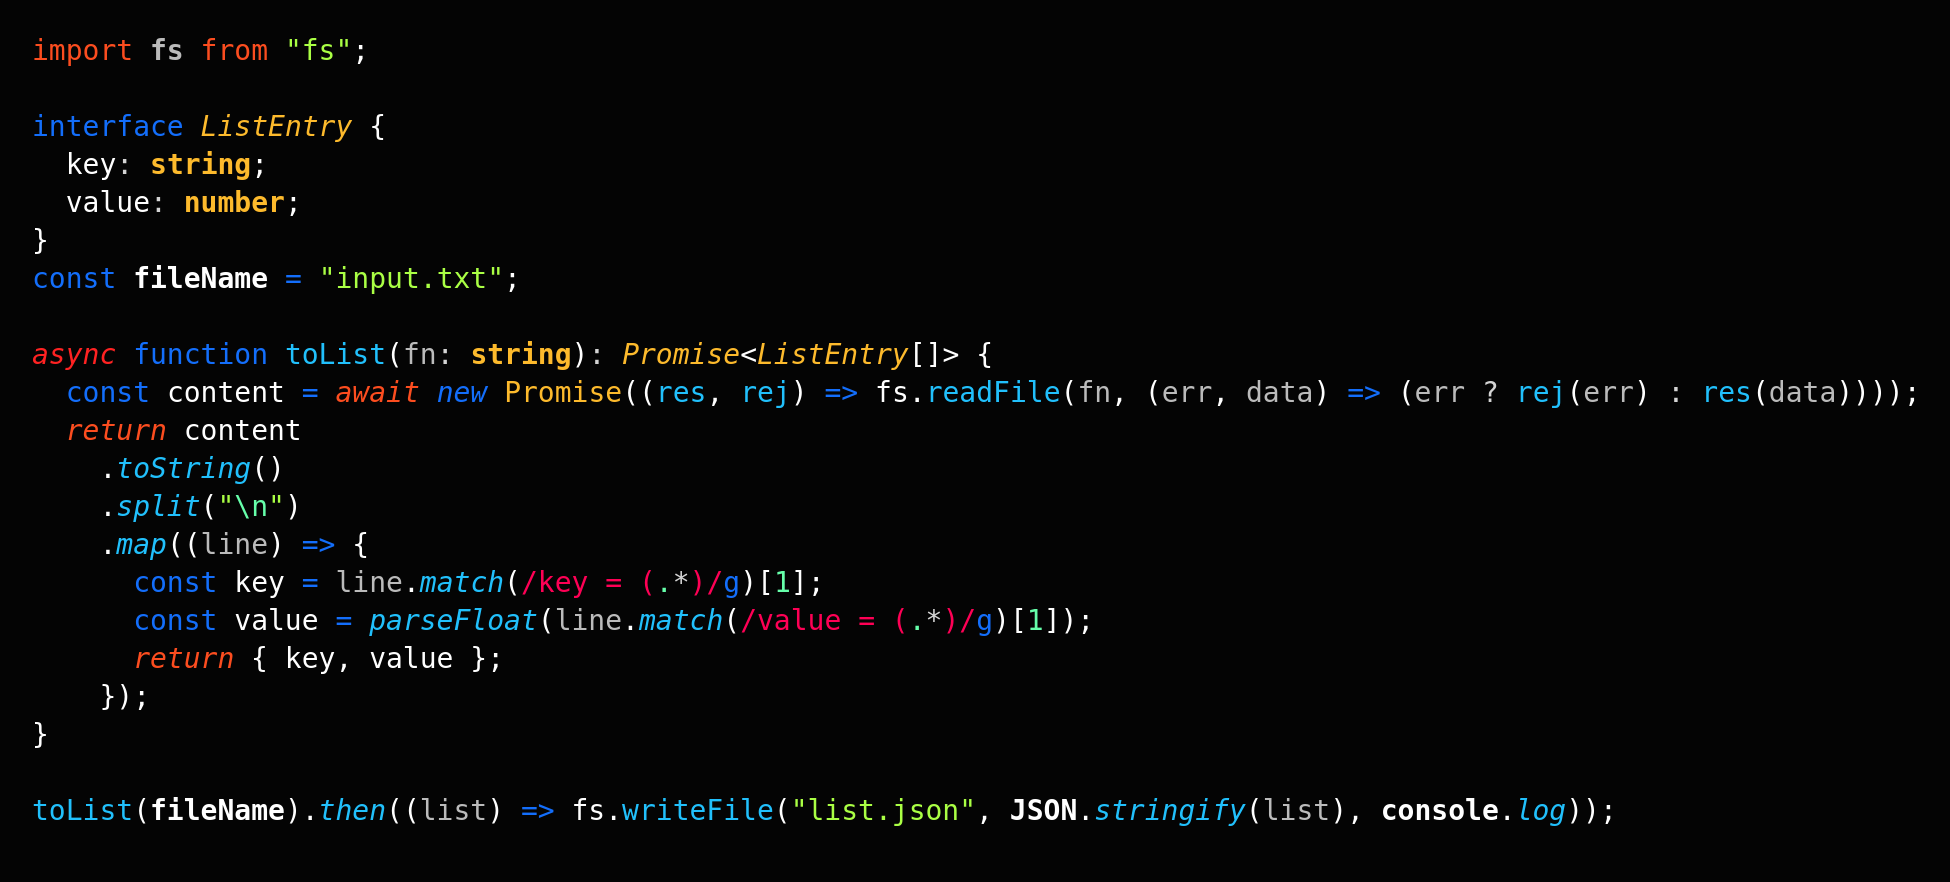
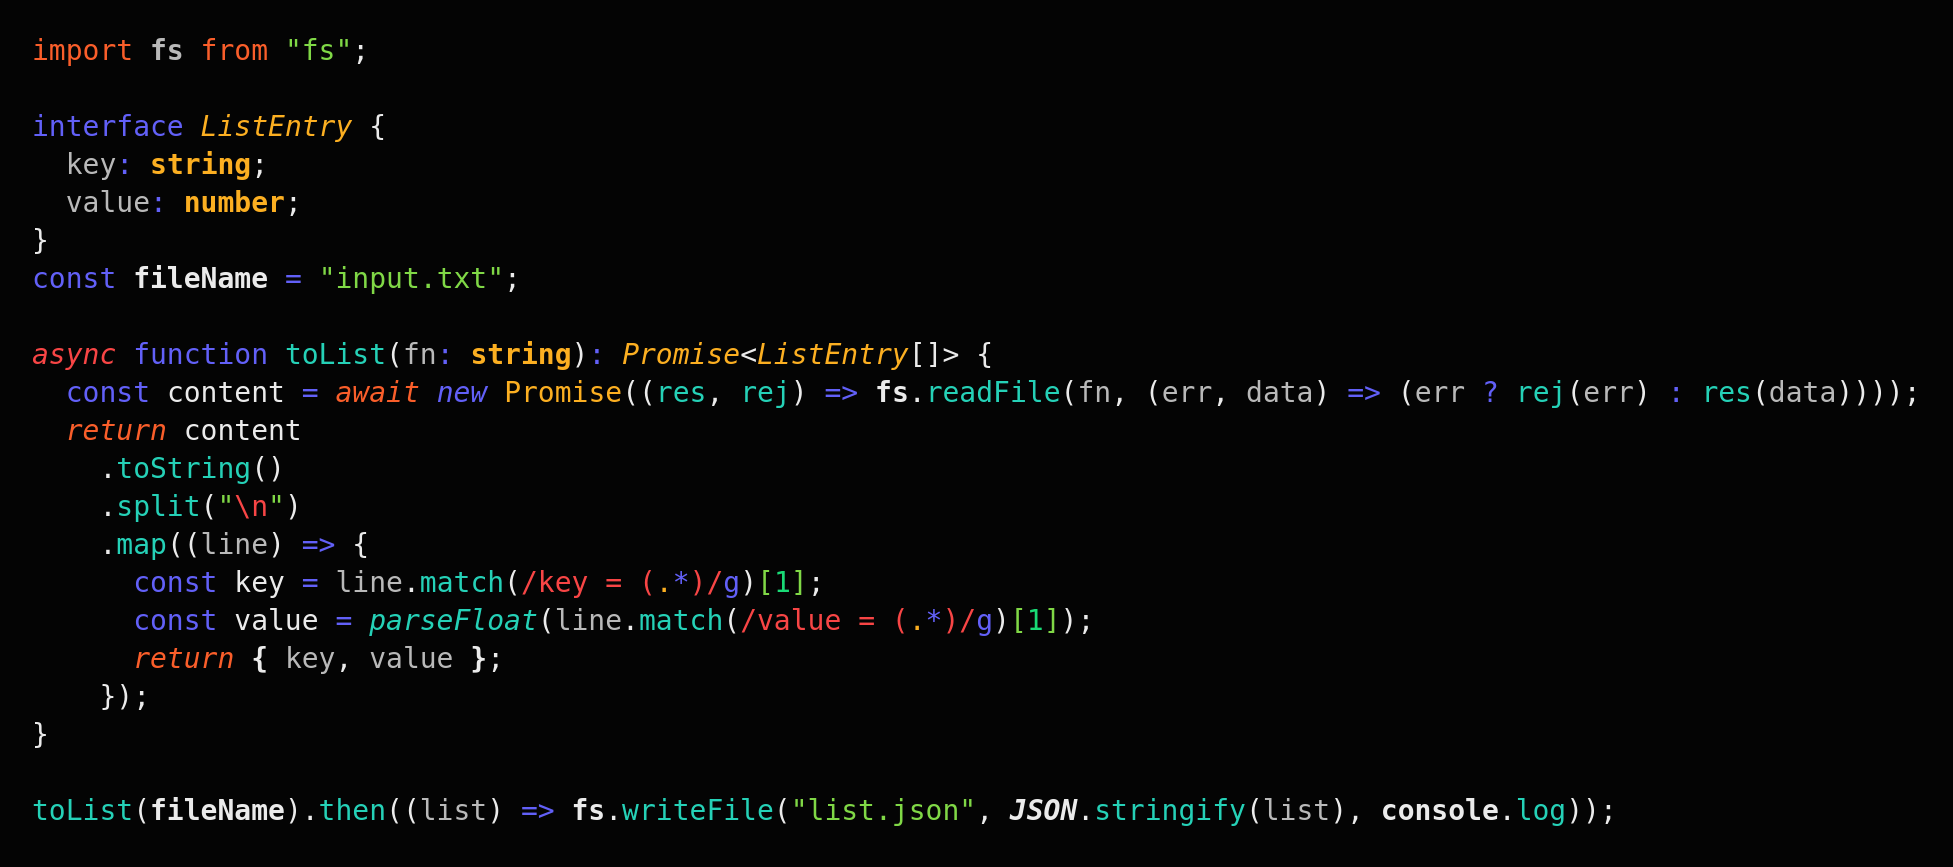
fix: make find more readable

diff --git a/CHANGELOG.md b/CHANGELOG.md
@@ -4,6 +4,11 @@ All notable changes to the "coral-reef" extension will be documented in this fil
 
 Check [Keep a Changelog](http://keepachangelog.com/) for recommendations on how to structure this file.
 
+## v1.3.1 (2020-07-22)
+
+- lighten keyword color for better visibility in selections
+- make find background more visible and better readable in comments
+
 ## v 1.3.0 (2020-07-21)
 
 - fix selection background not visible
